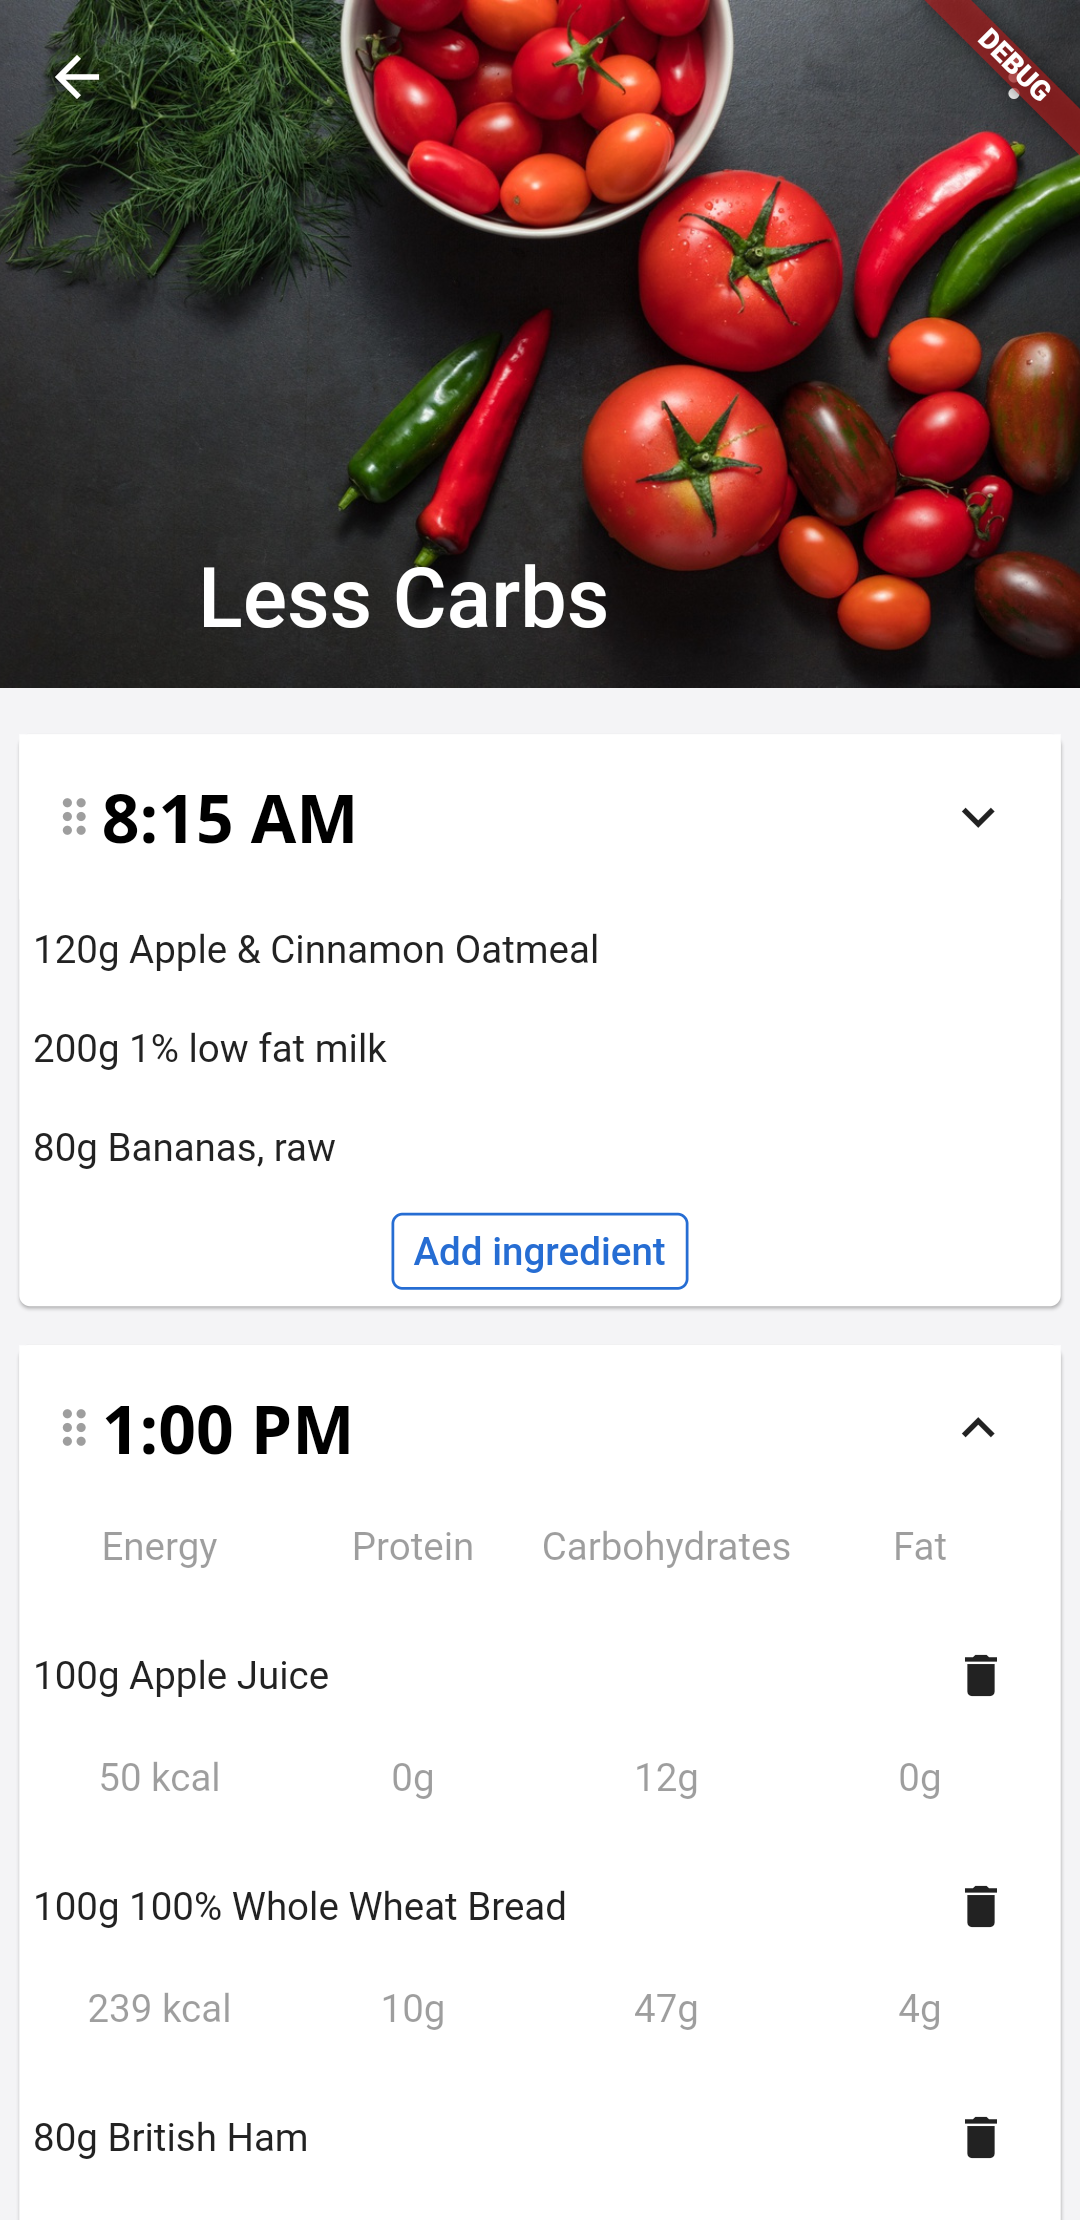
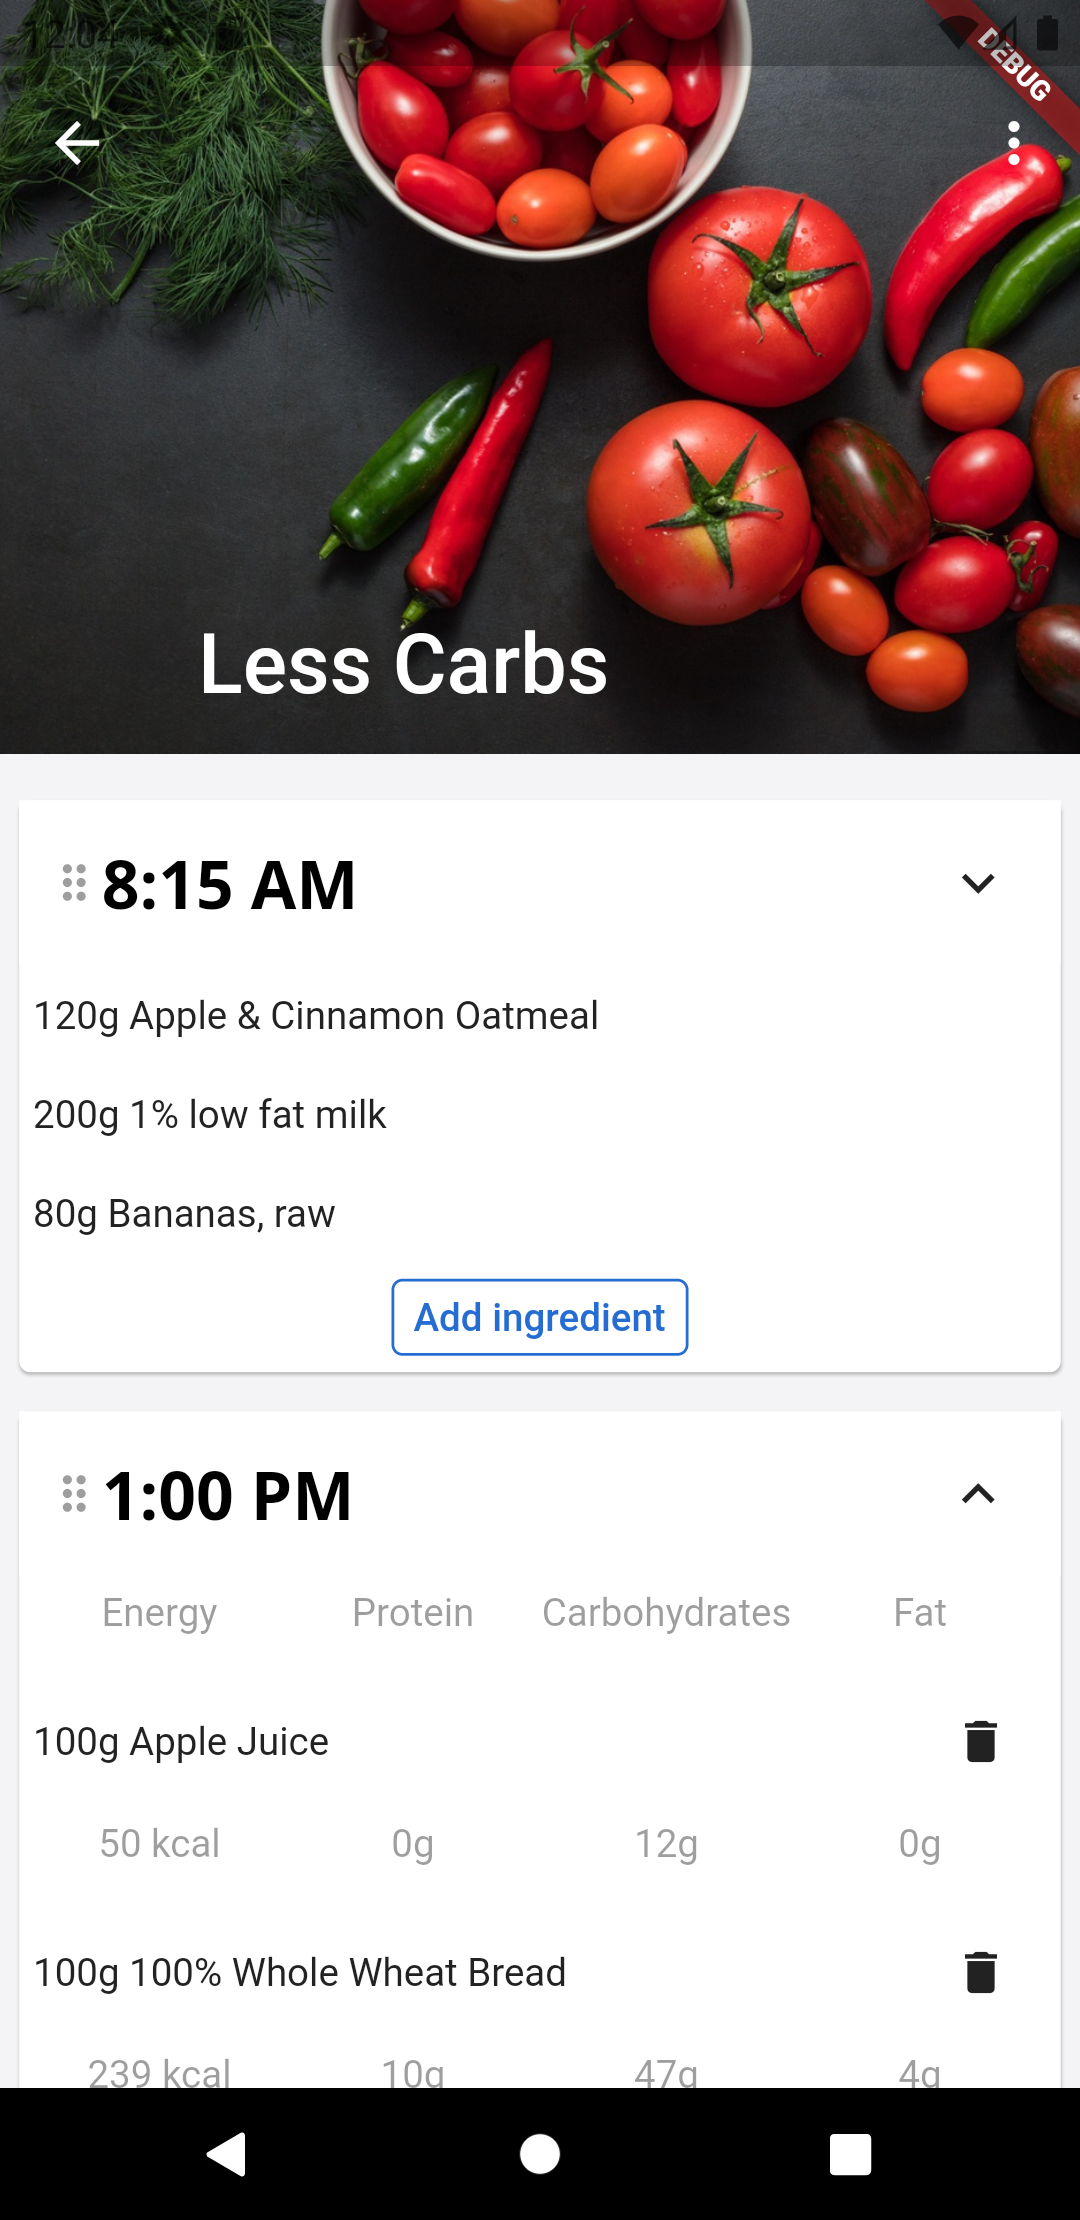
Replace screenshot for nutritional plan
Now all screenshots have the navigation bar on the bottom

diff --git a/README.md b/README.md
@@ -11,6 +11,8 @@ If you want to contribute, hop on the Discord server and say hi!
 <img src="https://github.com/wger-project/flutter/blob/master/android/fastlane/metadata/android/en-US/images/phoneScreenshots/01%20-%20workout%20plan.png?raw=true" width="200" />
 
 <img src="https://github.com/wger-project/flutter/blob/master/android/fastlane/metadata/android/en-US/images/phoneScreenshots/02%20-%20workout%20log.png?raw=true" width="200" />
+
+<img src="https://github.com/wger-project/flutter/blob/master/android/fastlane/metadata/android/en-US/images/phoneScreenshots/04%20-%20nutritional%20plan.png?raw=true" width="200" />
 </p>
 
 
